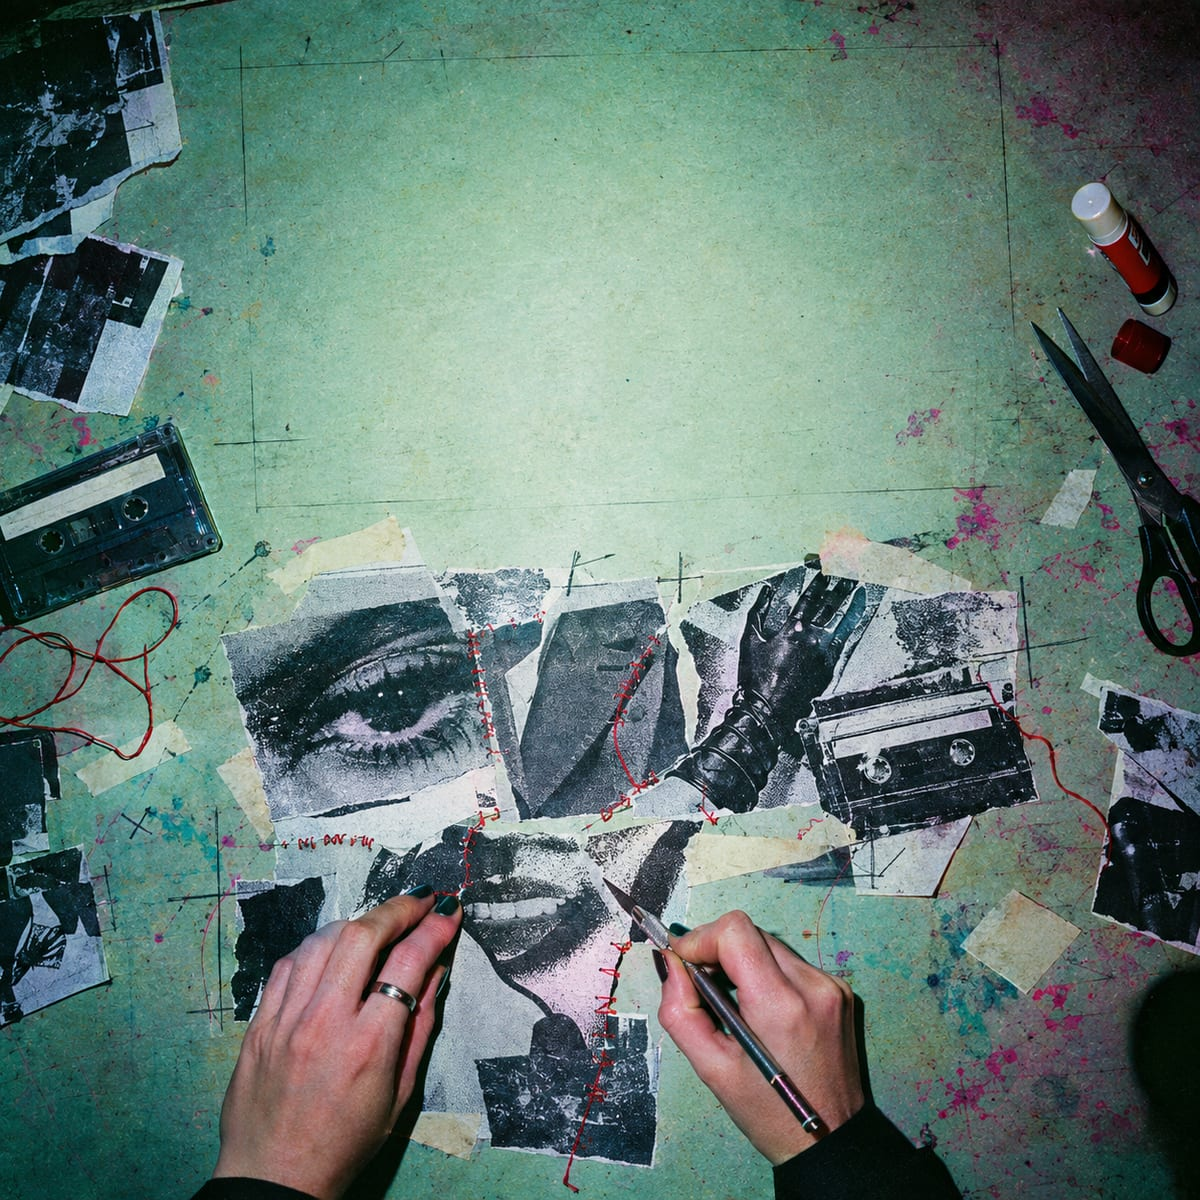
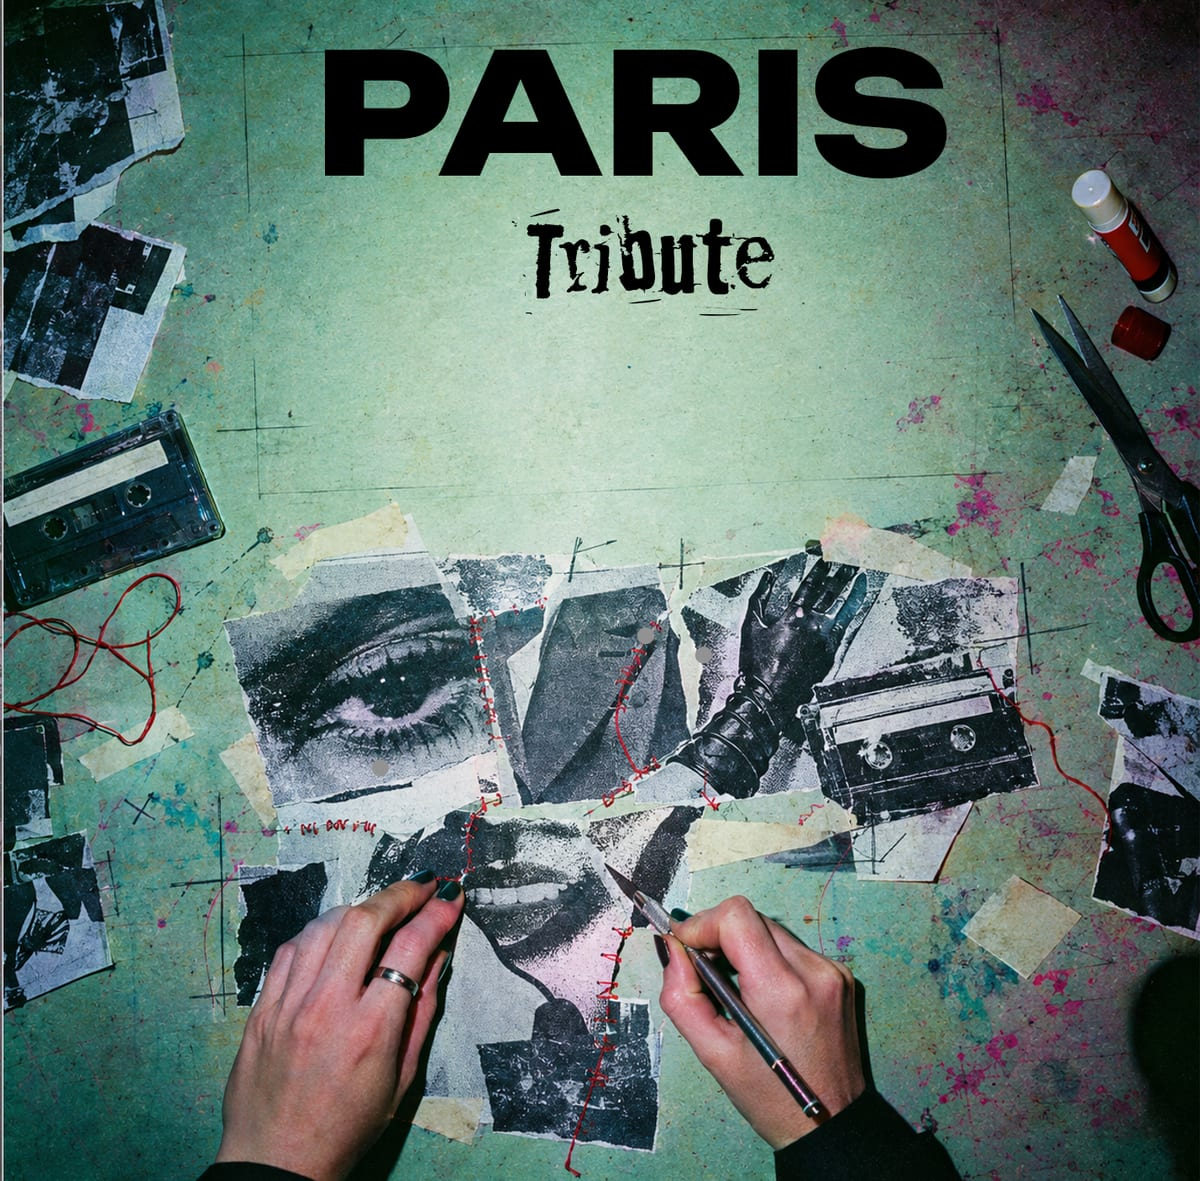
feat(art): revised Tribute cover, and the EP cover, back and inner art (#30)
* feat(art): revised Tribute cover and the EP cover, back and inner art

Replaces tribute-cover.jpg with the revised cover (original proportions kept) and adds the EP
cover, back cover and inner spread as processed JPEGs. Nothing references the new EP files yet;
the catalogue and EP page wiring follow.

* feat(ep): show the EP cover, and its back and inner art as a gallery

The catalogue's EP cover is now the real art. Albums can carry an optional gallery, which the
album page renders under the track list like the Well Enough page does; the EP page definition
gets the matching block. The lightbox spec counts the three EP images and targets the cover
for its generic click tests.

* docs: the new EP art, the gallery field, and how to build for e2e

The EP has real cover art and a gallery; Unreleased keeps its placeholder. Albums can carry an
optional gallery in data/albums.json. The e2e entry now gives CI's placeholder build and records
that a build with the real P1 credentials made /albums/ep serve the published page.

---------

diff --git a/e2e/lightbox.spec.ts b/e2e/lightbox.spec.ts
@@ -35,17 +35,17 @@ test("it opens from the keyboard and traps focus inside", async ({ page }) => {
 
 test("the Close button and the backdrop both close it", async ({ page }) => {
   await page.goto("/albums/ep");
-  await opener(page, /View larger/).click();
+  await opener(page, /View larger/).first().click();
   await page.getByRole("button", { name: "Close" }).click();
   await expect(page.getByRole("dialog")).toBeHidden();
-  await opener(page, /View larger/).click();
+  await opener(page, /View larger/).first().click();
   await page.mouse.click(4, 4); // far corner: the backdrop
   await expect(page.getByRole("dialog")).toBeHidden();
 });
 
 test("the page behind does not scroll while it is open, and scrolls again after", async ({ page }) => {
   await page.goto("/albums/ep");
-  await opener(page, /View larger/).click();
+  await opener(page, /View larger/).first().click();
   expect(await page.evaluate(() => document.body.style.overflow)).toBe("hidden");
   await page.keyboard.press("Escape");
   // The restore runs after React handles the dialog's close event, so wait for it rather than read at once.
@@ -54,7 +54,7 @@ test("the page behind does not scroll while it is open, and scrolls again after"
 
 test("the open lightbox has no accessibility violations", async ({ page }) => {
   await page.goto("/albums/ep");
-  await opener(page, /View larger/).click();
+  await opener(page, /View larger/).first().click();
   const { violations } = await new AxeBuilder({ page })
     .withTags(["wcag2a", "wcag2aa", "wcag21a", "wcag21aa", "wcag22aa", "best-practice"])
     .analyze();
@@ -64,6 +64,7 @@ test("the open lightbox has no accessibility violations", async ({ page }) => {
 test("images across the site open in a lightbox", async ({ page }) => {
   for (const [route, count] of [
     ["/well-enough", 3],
+    ["/albums/ep", 3],
     ["/albums/tribute", 1],
     ["/listen", 4],
     ["/bio", 1],

diff --git a/lib/site/catalog.ts b/lib/site/catalog.ts
@@ -3,6 +3,7 @@ import { listAudioKeys } from "./audio";
 import { getLyricSlugs } from "./lyrics";
 
 export type Track = { number: number; slug: string; title: string };
+export type GalleryImage = { src: string; alt: string; width: number; height: number };
 export type Album = {
   slug: string;
   title: string;
@@ -12,6 +13,8 @@ export type Album = {
   cover: string;
   blurb: string;
   featured: boolean;
+  /** Extra art shown under the track list (back cover, inner spread). */
+  gallery?: GalleryImage[];
   tracks: Track[];
 };
 

diff --git a/app/(site)/albums/[slug]/page.tsx b/app/(site)/albums/[slug]/page.tsx
@@ -61,6 +61,13 @@ async function AlbumFallback({ params }: Props) {
         </p>
         )}
       </section>
+      {album.gallery && album.gallery.length > 0 ? (
+        <section className="grid gap-6 sm:grid-cols-2">
+          {album.gallery.map((g) => (
+            <LightboxImage key={g.src} src={g.src} alt={g.alt} width={g.width} height={g.height} loading="lazy" className="w-full rounded-card border border-line" />
+          ))}
+        </section>
+      ) : null}
     </Page>
   );
 }

diff --git a/CLAUDE.md b/CLAUDE.md
@@ -45,7 +45,7 @@ How this fits the rest of this file:
 | `pnpm dev` | Dev server (needs `.env`, see `.env.example`) |
 | `pnpm lint` / `pnpm typecheck` / `pnpm test` | Required before presenting changes |
 | `pnpm build` | Production build; works with placeholder `NEXT_PUBLIC_CSS_SITE_ID` and `CSS_API_KEY` |
-| `pnpm test:e2e` (alias `test:a11y`; `P1_LIVE=1` runs against live P1 content using the credentials in `.env`, default is repo-copy only) | Playwright: axe, keyboard, navigation and favicon checks against the standalone build (run `pnpm build` first; kill any stale server on :3100) |
+| `pnpm test:e2e` (alias `test:a11y`; `P1_LIVE=1` runs against live P1 content using the credentials in `.env`, default is repo-copy only) | Playwright: axe, keyboard, navigation and favicon checks against the standalone build (run `pnpm build` first; kill any stale server on :3100). Build with CI's placeholders (`CSS_API_KEY=ci-placeholder NEXT_PUBLIC_CSS_SITE_ID=00000000-0000-0000-0000-000000000000 pnpm build`, and `NEXT_PUBLIC_CSS_BASE_URL=https://ccr.p1.pantheon.io` for the e2e run unless `.env` provides it; see `test-pantheon.yml`). Observed locally: after a build that loaded the real P1 credentials from `.env`, `/albums/ep` served the published P1 page even with placeholder credentials at runtime, because album pages are prerendered at build and served until they revalidate (`revalidate = 300`), so the e2e run was testing P1 content, not the repo copies |
 | `pnpm storybook` / `pnpm build-storybook` | Design system (`design-system/`, config in `.storybook/`) |
 | `pnpm sync:registry` | Push Puck registry to P1 (CI does this) |
 
@@ -77,7 +77,7 @@ How this fits the rest of this file:
   `/bio`, `/tour` and `/merch` were published earlier, from a workstream that has since been merged; they have no `content/p1-pages` file, and their fallbacks are the
   code version in `app/(site)/bio/`, `data/tour.json` and `data/merch.json`.
 - **Where the rest of the content lives:** the public pages are code under `app/(site)/` with content in the repo:
-  `data/albums.json` (albums, tracks, `unreleased` pseudo-album with no `year`), `data/tour.json` and `data/merch.json` (fallbacks),
+  `data/albums.json` (albums, tracks, an optional `gallery` of extra art per album, `unreleased` pseudo-album with no `year`), `data/tour.json` and `data/merch.json` (fallbacks),
   `content/lyrics/*.md` (frontmatter `title`/`album`/`track`, `### Label` sections), `content/press/interview.md`.
   To add a song: add it to
   `data/albums.json`, upload `<album>/<NN>-<slug>.m4a` to the bucket, add `content/lyrics/<slug>.md` if it has lyrics.
@@ -89,7 +89,7 @@ How this fits the rest of this file:
   NOT have `crossOrigin`: with it, every new preview/prod origin has to be added to the bucket's CORS list or playback
   silently fails (downloads still work because they go through `/api/download`). Without it playback needs no CORS.
 - **Unreleased** means no public release (not "coming soon"). It is an album-style page with no `year`; do not seed it with
-  songs that merely lack audio. The EP has its own album page (`ep`). Its cover is a placeholder photo until real art exists.
+  songs that merely lack audio. The EP has its own album page (`ep`) with real cover art, plus a back cover and inner spread shown as a gallery under the track list. Unreleased still uses the `paris-close.jpg` placeholder until it has art.
 - Content editing guide for humans: `CONTENT.md`.
 - **`serverExternalPackages: ["yjs"]`** in `next.config.ts` stops the "Yjs was already imported" warning (yjs loaded twice, ESM and CJS). The starter's `webpack` yjs alias is ignored by Turbopack, the default builder.
 - **Single Next config:** `next.config.ts` only. The starter's `.mjs` config and the Pantheon template's `.ts`
